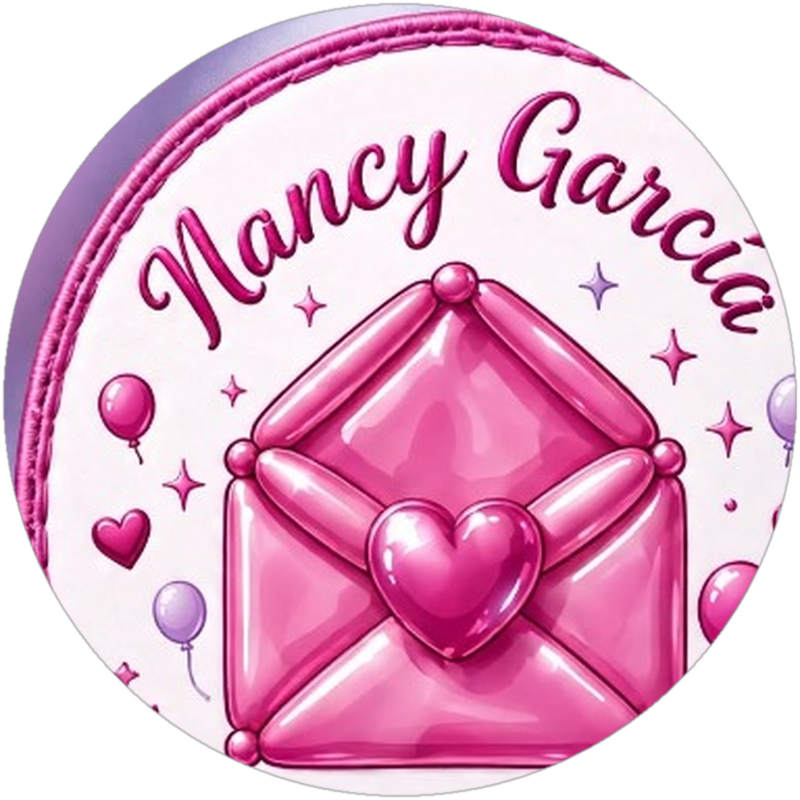
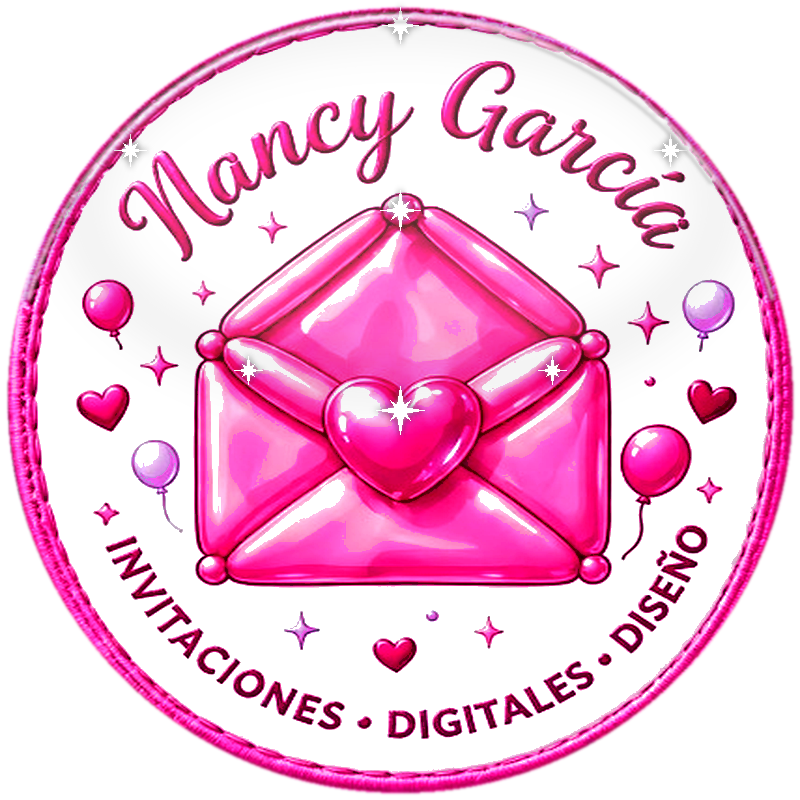
feat: enhance brilliance, gloss, and sparkles for badges 5 and 6 matching badge 4 shine; integrate 6 vertical circular cards in main grid

diff --git a/index.html b/index.html
@@ -40,7 +40,7 @@
   <link rel="stylesheet" href="https://cdn.jsdelivr.net/npm/bootstrap-icons@1.11.3/font/bootstrap-icons.min.css">
 
   <!-- Custom Design System Stylesheet -->
-  <link rel="stylesheet" href="styles.css?v=18.0">
+  <link rel="stylesheet" href="styles.css?v=20.0">
 
   <!-- Schema.org JSON-LD for Business -->
   <script type="application/ld+json">
@@ -101,9 +101,8 @@
           <li><a href="#divisiones" class="nav-link"><i class="bi bi-stars" style="color:var(--magenta-neon);"></i> Servicios</a></li>
           <li><a href="#seccion-nieves" class="nav-link">Nieves & Snacks</a></li>
           <li><a href="#seccion-arte-infantil" class="nav-link">Yesitos & Caballetes</a></li>
-          <li><a href="#seccion-extras" class="nav-link">Invitaciones & Foto</a></li>
           <li><a href="#portafolio" class="nav-link">Galería</a></li>
-          <li><a href="#cotizacion" class="nav-link">Cotizar</a></li>
+          <li><a href="#configurador" class="nav-link">Cotizar</a></li>
           <li class="nav-menu-wa-item">
             <a href="https://wa.me/528110626302?text=Hola%20Nancy%20Garc%C3%ADa%20Eventos,%20quisiera%20cotizar%20servicios%20para%20un%20evento%20en%20el%20%C3%81rea%20Metropolitana%20de%20Monterrey." target="_blank" rel="noopener" class="btn btn-whatsapp nav-wa-btn">
               <i class="bi bi-whatsapp"></i> COTIZAR POR WHATSAPP
@@ -207,7 +206,7 @@
           <span class="gradient-text-gold">EN UN SOLO LUGAR</span>
         </h2>
         <p class="section-subtitle">
-          Nancy García Eventos reúne los 4 servicios clave para que celebres en grande. Puedes contratar el servicio individual que necesitas o un paquete completo todo incluido.
+          Nancy García Eventos reúne los 6 servicios clave para que celebres en grande. Puedes contratar el servicio individual que necesitas o un paquete completo todo incluido.
         </p>
 
         <div class="divisions-grid">
@@ -215,7 +214,7 @@
           <div class="division-card div-globos">
             <div class="division-badge-wrap">
               <div class="division-badge-glow"></div>
-              <img src="assets/images/divisiones/variante_1_decoracion_globos.png?v=2.0" alt="Nancy García Decoración · Globos · Detalles" class="division-badge-img">
+              <img src="assets/images/divisiones/variante_1_decoracion_globos.png?v=3.0" alt="Nancy García Decoración · Globos · Detalles" class="division-badge-img">
             </div>
             <span class="division-tag">DECORACIÓN CON GLOBOS</span>
             <h3 class="division-name">DECORACIÓN CON GLOBOS</h3>
@@ -281,7 +280,7 @@
           <div class="division-card div-mobiliario">
             <div class="division-badge-wrap">
               <div class="division-badge-glow"></div>
-              <img src="assets/images/divisiones/variante_3_mobiliario_diseno.png?v=2.0" alt="Nancy García Mobiliario · Inflables · Decoración" class="division-badge-img">
+              <img src="assets/images/divisiones/variante_3_mobiliario_diseno.png?v=3.0" alt="Nancy García Mobiliario · Inflables · Decoración" class="division-badge-img">
             </div>
             <span class="division-tag">RENTA DE MOBILIARIO E INFLABLES</span>
             <h3 class="division-name">MOBILIARIO & INFLABLES</h3>
@@ -314,13 +313,13 @@
           <div class="division-card div-shows">
             <div class="division-badge-wrap">
               <div class="division-badge-glow"></div>
-              <img src="assets/images/divisiones/variante_4_animacion_shows.png?v=2.0" alt="Nancy García Zona Creativa Infantil · Yesitos · Shows" class="division-badge-img">
+              <img src="assets/images/divisiones/variante_4_animacion_shows.png?v=3.0" alt="Nancy García Zona Creativa Infantil · Yesitos · Shows" class="division-badge-img">
             </div>
             <span class="division-tag">ZONA CREATIVA INFANTIL</span>
             <h3 class="division-name">YESITOS & CABALLETES</h3>
             <div class="division-subtitle">Taller de Pintura y Kits de Arte Infantil</div>
             <p class="division-desc">
-              Taller interactivo de pintura en figuras de yeso (dinosaurios, personajes y animales), mini caballetes con hojas para colorear y kits individuales.
+              Taller interactivo de pintura en figuras de yeso (dinosaurios, personajes y animales), caballetes de madera con hojas para colorear y kits individuales.
             </p>
 
             <!-- Botón desplegable interactivo -->
@@ -332,7 +331,7 @@
             <div id="div-bullets-4" class="collapsible-content">
               <ul class="division-bullets">
                 <li><i class="bi bi-check-circle-fill"></i> Taller de pintura en figuras de yeso (dinos y personajes).</li>
-                <li><i class="bi bi-check-circle-fill"></i> Mini caballetes de madera con hojas para colorear.</li>
+                <li><i class="bi bi-check-circle-fill"></i> Caballetes de madera con hojas y dibujos para colorear.</li>
                 <li><i class="bi bi-check-circle-fill"></i> Kits individuales de arte listos para regalar (bolos).</li>
                 <li><i class="bi bi-check-circle-fill"></i> Animación, música y sonido para ambientar tu fiesta.</li>
               </ul>
@@ -340,6 +339,72 @@
 
             <a href="https://wa.me/528110626302?text=Hola%20Nancy%20Garc%C3%ADa%20Eventos,%20deseo%20cotizar%20el%20Taller%20de%20Yesitos%20y%20Caballetes%20Infantiles." target="_blank" rel="noopener" class="division-btn" style="margin-top: 14px;">
               <i class="bi bi-whatsapp"></i> COTIZAR ZONA DE ARTE
+            </a>
+          </div>
+
+          <!-- Servicio 5: Invitaciones Digitales Interactivas -->
+          <div class="division-card div-invitaciones">
+            <div class="division-badge-wrap">
+              <div class="division-badge-glow"></div>
+              <img src="assets/images/divisiones/variante_5_invitaciones_digitales.png?v=4.0" alt="Nancy García Invitaciones Digitales con GPS" class="division-badge-img">
+            </div>
+            <span class="division-tag">INVITACIONES DIGITALES</span>
+            <h3 class="division-name">INVITACIONES DIGITALES</h3>
+            <div class="division-subtitle">Pases Interactivos con GPS y RSVP</div>
+            <p class="division-desc">
+              Invitaciones interactivas para WhatsApp con ubicación en 1 clic a Google Maps y Waze, botón de confirmación RSVP, itinerario y mesa de regalos.
+            </p>
+
+            <!-- Botón desplegable interactivo -->
+            <button class="btn-toggle-expand toggle-pink" data-target="div-bullets-5" aria-expanded="false">
+              <i class="bi bi-chevron-down"></i> <span class="toggle-text">Ver funciones interactivas</span>
+            </button>
+
+            <!-- Contenido desplegable -->
+            <div id="div-bullets-5" class="collapsible-content">
+              <ul class="division-bullets">
+                <li><i class="bi bi-check-circle-fill"></i> Ubicación con 1 clic directo a Google Maps y Waze.</li>
+                <li><i class="bi bi-check-circle-fill"></i> Botón de confirmación RSVP directo a WhatsApp.</li>
+                <li><i class="bi bi-check-circle-fill"></i> Pases digitales interactivos sin límite de envíos.</li>
+                <li><i class="bi bi-check-circle-fill"></i> Diseño 100% temático y personalizado para tu fiesta.</li>
+              </ul>
+            </div>
+
+            <a href="https://wa.me/528110626302?text=Hola%20Nancy%20Garc%C3%ADa%20Eventos,%20deseo%20cotizar%20el%20dise%C3%B1o%20de%20Invitaciones%20Digitales%20con%20GPS%20y%20RSVP." target="_blank" rel="noopener" class="division-btn" style="margin-top: 14px;">
+              <i class="bi bi-whatsapp"></i> COTIZAR INVITACIONES
+            </a>
+          </div>
+
+          <!-- Servicio 6: Fotografía Profesional para Eventos -->
+          <div class="division-card div-fotografia">
+            <div class="division-badge-wrap">
+              <div class="division-badge-glow"></div>
+              <img src="assets/images/divisiones/variante_6_fotografia_eventos.png?v=4.0" alt="Nancy García Fotografía Profesional para Eventos" class="division-badge-img">
+            </div>
+            <span class="division-tag">FOTOGRAFÍA PROFESIONAL</span>
+            <h3 class="division-name">FOTOGRAFÍA DE EVENTOS</h3>
+            <div class="division-subtitle">Cobertura y Recuerdos en Familia</div>
+            <p class="division-desc">
+              Cobertura fotográfica profesional para fiestas y cumpleaños. Momentos espontáneos con tu familia, piñata, pastel y entrega digital en alta definición.
+            </p>
+
+            <!-- Botón desplegable interactivo -->
+            <button class="btn-toggle-expand toggle-gold" data-target="div-bullets-6" aria-expanded="false">
+              <i class="bi bi-chevron-down"></i> <span class="toggle-text">Ver paquete fotográfico</span>
+            </button>
+
+            <!-- Contenido desplegable -->
+            <div id="div-bullets-6" class="collapsible-content">
+              <ul class="division-bullets">
+                <li><i class="bi bi-check-circle-fill"></i> Cobertura completa durante los momentos clave del evento.</li>
+                <li><i class="bi bi-check-circle-fill"></i> Fotos de decoración, pastel, piñata y fotos familiares.</li>
+                <li><i class="bi bi-check-circle-fill"></i> Entrega digital en alta definición mediante enlace privado.</li>
+                <li><i class="bi bi-check-circle-fill"></i> Paquetes accesibles diseñados para fiestas y cumpleaños.</li>
+              </ul>
+            </div>
+
+            <a href="https://wa.me/528110626302?text=Hola%20Nancy%20Garc%C3%ADa%20Eventos,%20deseo%20cotizar%20la%20Cobertura%20de%20Fotograf%C3%ADa%20Profesional%20para%20mi%20evento." target="_blank" rel="noopener" class="division-btn" style="margin-top: 14px;">
+              <i class="bi bi-whatsapp"></i> COTIZAR FOTOGRAFÍA
             </a>
           </div>
         </div>
@@ -350,7 +415,7 @@
             <div class="all-banner-tag"><i class="bi bi-stars"></i> SOLUCIÓN TODO INCLUIDO</div>
             <h3 class="all-banner-title">¿Deseas tu evento resuelto en un solo lugar?</h3>
             <p class="all-banner-desc">
-              <strong>Nancy García Eventos</strong> reúne Decoración, Banquete, Mobiliario y Animación bajo una sola coordinación con puntualidad garantizada en toda el área metropolitana de Monterrey y tarifa preferencial de paquete.
+              <strong>Nancy García Eventos</strong> coordina Decoración con globos, Barra de nieves y botanas, Mobiliario, Taller infantil de yesitos, Invitaciones digitales y Fotografía bajo una sola coordinación con puntualidad garantizada en toda el área metropolitana de Monterrey y tarifa preferencial de paquete.
             </p>
           </div>
           <div class="all-banner-actions">
@@ -550,99 +615,6 @@
       </div>
     </section>
 
-    <!-- SECCIÓN ESTELAR: INVITACIONES DIGITALES & FOTOGRAFÍA PROFESIONAL -->
-    <section id="seccion-extras" class="services-showcase" style="padding: 70px 0; background: linear-gradient(180deg, rgba(255,255,255,0.02) 0%, rgba(0,191,165,0.04) 50%, rgba(255,255,255,0.02) 100%);">
-      <div class="container">
-        <div style="text-align: center; margin-bottom: 40px;">
-          <div class="section-tag"><i class="bi bi-envelope-paper-heart-fill"></i> DETALLES QUE MARCAN LA DIFERENCIA</div>
-          <h2 class="section-title">
-            INVITACIONES DIGITALES<br>
-            <span class="gradient-text-turquoise">& FOTOGRAFÍA PARA EVENTOS</span>
-          </h2>
-          <p class="section-subtitle">
-            Complementos indispensables para que tus invitados lleguen fácil y recuerdes cada momento especial para siempre.
-          </p>
-        </div>
-
-        <div style="display: grid; grid-template-columns: repeat(auto-fit, minmax(320px, 1fr)); gap: 30px; align-items: stretch;">
-          <!-- Card 1: Invitaciones Digitales Interactivas -->
-          <div class="service-feature-card" style="background: rgba(255,255,255,0.85); backdrop-filter: blur(12px); border: 1px solid rgba(0,245,212,0.25); border-radius: 20px; overflow: hidden; box-shadow: 0 16px 40px rgba(0,0,0,0.06); display: flex; flex-direction: column;">
-            <div style="position: relative; height: 250px; overflow: hidden;">
-              <img src="assets/images/servicios/invitaciones_digitales_evento.jpg" alt="Invitaciones Digitales Interactivas para WhatsApp con GPS" style="width: 100%; height: 100%; object-fit: cover;">
-              <span style="position: absolute; top: 16px; left: 16px; background: #00BFA5; color: #fff; padding: 6px 14px; border-radius: 20px; font-size: 0.78rem; font-weight: 800;">PASES POR WHATSAPP</span>
-              <img src="assets/images/divisiones/variante_5_invitaciones_digitales.png" alt="Sello Oficial Invitaciones Nancy García" style="position: absolute; top: 12px; right: 12px; width: 72px; height: 72px; filter: drop-shadow(0 4px 10px rgba(0,0,0,0.3)); z-index: 2;">
-            </div>
-            <div style="padding: 24px; flex: 1; display: flex; flex-direction: column;">
-              <h3 style="font-size: 1.3rem; font-weight: 800; color: var(--text-dark); margin-bottom: 8px;">📲 Invitaciones Digitales con GPS</h3>
-              <p style="font-size: 0.9rem; color: var(--text-muted); line-height: 1.5; margin-bottom: 14px;">
-                Diseño interactivo según la temática de tu festejo. Pases digitales con botón a Google Maps, Waze y confirmación RSVP.
-              </p>
-
-              <!-- Botón desplegable -->
-              <button class="btn-toggle-expand toggle-turquoise" data-target="expand-invitaciones-1" aria-expanded="false" style="padding: 7px 16px; font-size: 0.8rem; margin-bottom: 14px;">
-                <i class="bi bi-chevron-down"></i> <span class="toggle-text">Ver funciones interactivas</span>
-              </button>
-
-              <!-- Contenido colapsable -->
-              <div id="expand-invitaciones-1" class="collapsible-content">
-                <div style="background: rgba(240,255,252,0.8); border-radius: 12px; padding: 14px; margin-bottom: 14px; font-size: 0.85rem; line-height: 1.6;">
-                  <strong style="color: #00897B; display:block; margin-bottom:4px;">✨ Funciones Incluidas:</strong>
-                  • <strong>Ubicación con 1 Clic:</strong> Botón directo a Google Maps y Waze para que nadie se pierda.<br>
-                  • <strong>Confirmación RSVP:</strong> Botón para que confirmen asistencia directo a tu WhatsApp.<br>
-                  • <strong>Pases Digitales:</strong> Envío rápido y sin límites a tus contactos de WhatsApp.<br>
-                  • <strong>Galería & Música:</strong> Sección con fotos del festejado, itinerario y mesa de regalos.<br>
-                  • <strong>Diseño 100% Personalizado:</strong> Ajustado a la paleta y temática elegida.
-                </div>
-              </div>
-
-              <div style="margin-top: auto; padding-top: 10px;">
-                <a href="https://wa.me/528110626302?text=Hola%20Nancy%20Garc%C3%ADa%20Eventos,%20deseo%20cotizar%20una%20Invitaci%C3%B3n%20Digital%20con%20GPS." target="_blank" rel="noopener" class="btn btn-primary" style="width: 100%; justify-content: center; padding: 12px; background: linear-gradient(135deg, #00BFA5, #009688);">
-                  <i class="bi bi-whatsapp"></i> COTIZAR INVITACIÓN DIGITAL
-                </a>
-              </div>
-            </div>
-          </div>
-
-          <!-- Card 2: Fotografía Profesional para Eventos -->
-          <div class="service-feature-card" style="background: rgba(255,255,255,0.85); backdrop-filter: blur(12px); border: 1px solid rgba(212,175,55,0.25); border-radius: 20px; overflow: hidden; box-shadow: 0 16px 40px rgba(0,0,0,0.06); display: flex; flex-direction: column;">
-            <div style="position: relative; height: 250px; overflow: hidden;">
-              <img src="assets/images/servicios/fotografia_profesional_evento.jpg" alt="Fotografía Profesional para Fiestas y Cumpleaños" style="width: 100%; height: 100%; object-fit: cover;">
-              <span style="position: absolute; top: 16px; left: 16px; background: var(--gold-metallic); color: #000; padding: 6px 14px; border-radius: 20px; font-size: 0.78rem; font-weight: 800;">PAQUETES ACCESIBLES</span>
-              <img src="assets/images/divisiones/variante_6_fotografia_eventos.png" alt="Sello Oficial Fotografía Nancy García" style="position: absolute; top: 12px; right: 12px; width: 72px; height: 72px; filter: drop-shadow(0 4px 10px rgba(0,0,0,0.3)); z-index: 2;">
-            </div>
-            <div style="padding: 24px; flex: 1; display: flex; flex-direction: column;">
-              <h3 style="font-size: 1.3rem; font-weight: 800; color: var(--text-dark); margin-bottom: 8px;">📷 Fotografía Profesional</h3>
-              <p style="font-size: 0.9rem; color: var(--text-muted); line-height: 1.5; margin-bottom: 14px;">
-                Cobertura fotográfica para fiestas y cumpleaños. Momentos espontáneos, piñata, pastel y fotos con familia.
-              </p>
-
-              <!-- Botón desplegable -->
-              <button class="btn-toggle-expand toggle-gold" data-target="expand-foto-1" aria-expanded="false" style="padding: 7px 16px; font-size: 0.8rem; margin-bottom: 14px;">
-                <i class="bi bi-chevron-down"></i> <span class="toggle-text">Ver paquete fotográfico</span>
-              </button>
-
-              <!-- Contenido colapsable -->
-              <div id="expand-foto-1" class="collapsible-content">
-                <div style="background: rgba(255,252,240,0.8); border-radius: 12px; padding: 14px; margin-bottom: 14px; font-size: 0.85rem; line-height: 1.6;">
-                  <strong style="color: var(--gold-deep); display:block; margin-bottom:4px;">📸 Qué Incluye el Paquete:</strong>
-                  • Cobertura completa durante las horas clave del evento.<br>
-                  • Fotografías de la decoración, mesa de postres y ambientación.<br>
-                  • Momentos espontáneos con amigos, piñata, mordida y mañanitas.<br>
-                  • Entrega digital en alta definición mediante enlace de descarga rápida.<br>
-                  • Paquetes sencillos y accesibles adaptados a cada presupuesto.
-                </div>
-              </div>
-
-              <div style="margin-top: auto; padding-top: 10px;">
-                <a href="https://wa.me/528110626302?text=Hola%20Nancy%20Garc%C3%ADa%20Eventos,%20deseo%20cotizar%20un%20Paquete%20de%20Fotograf%C3%ADa%20para%20mi%20evento." target="_blank" rel="noopener" class="btn btn-primary" style="width: 100%; justify-content: center; padding: 12px;">
-                  <i class="bi bi-whatsapp"></i> COTIZAR FOTOGRAFÍA
-                </a>
-              </div>
-            </div>
-          </div>
-        </div>
-      </div>
-    </section>
 
 
     <!-- SECCIÓN LOOKBOOK DE TEMPORADA & PALETAS DE COLOR -->

diff --git a/styles.css b/styles.css
@@ -2679,11 +2679,25 @@ body.menu-open .floating-wa-balloon {
 
 .divisions-grid {
   display: grid;
-  grid-template-columns: repeat(auto-fit, minmax(270px, 1fr));
+  grid-template-columns: repeat(3, 1fr);
   gap: 28px;
   margin-top: 45px;
   position: relative;
   z-index: 2;
+}
+
+@media (max-width: 1080px) {
+  .divisions-grid {
+    grid-template-columns: repeat(2, 1fr);
+    gap: 24px;
+  }
+}
+
+@media (max-width: 700px) {
+  .divisions-grid {
+    grid-template-columns: 1fr;
+    gap: 20px;
+  }
 }
 
 .division-card {
@@ -2736,10 +2750,10 @@ body.menu-open .floating-wa-balloon {
 
 .division-badge-glow {
   position: absolute;
-  inset: 12px;
+  inset: 8px;
   border-radius: 50%;
-  background: radial-gradient(circle, rgba(230, 0, 103, 0.12) 0%, rgba(212, 175, 55, 0.08) 50%, transparent 70%);
-  filter: blur(10px);
+  background: radial-gradient(circle, rgba(255, 0, 127, 0.22) 0%, rgba(255, 215, 0, 0.15) 45%, transparent 70%);
+  filter: blur(12px);
   transition: transform 0.35s ease, opacity 0.35s ease;
   z-index: 1;
 }
@@ -2750,17 +2764,17 @@ body.menu-open .floating-wa-balloon {
   width: 140px;
   height: 140px;
   object-fit: contain;
-  filter: drop-shadow(0 8px 16px rgba(0, 0, 0, 0.12));
+  filter: drop-shadow(0 8px 18px rgba(230, 0, 103, 0.18)) brightness(1.02);
   transition: transform 0.35s cubic-bezier(0.2, 0.8, 0.2, 1), filter 0.35s ease;
 }
 
 .division-card:hover .division-badge-img {
   transform: scale(1.06);
-  filter: drop-shadow(0 12px 22px rgba(230, 0, 103, 0.2));
+  filter: drop-shadow(0 14px 28px rgba(230, 0, 103, 0.35)) brightness(1.06);
 }
 
 .division-card:hover .division-badge-glow {
-  transform: scale(1.15);
+  transform: scale(1.2);
   opacity: 1;
 }
 
@@ -2813,6 +2827,8 @@ body.menu-open .floating-wa-balloon {
 .div-banquetes .division-subtitle { color: #B8860B !important; text-shadow: none !important; }
 .div-mobiliario .division-subtitle { color: #00897B !important; text-shadow: none !important; }
 .div-shows .division-subtitle { color: #6A1B9A !important; text-shadow: none !important; }
+.div-invitaciones .division-subtitle { color: #E91E63 !important; text-shadow: none !important; }
+.div-fotografia .division-subtitle { color: #D4AF37 !important; text-shadow: none !important; }
 
 .division-desc {
   font-family: var(--font-body);
